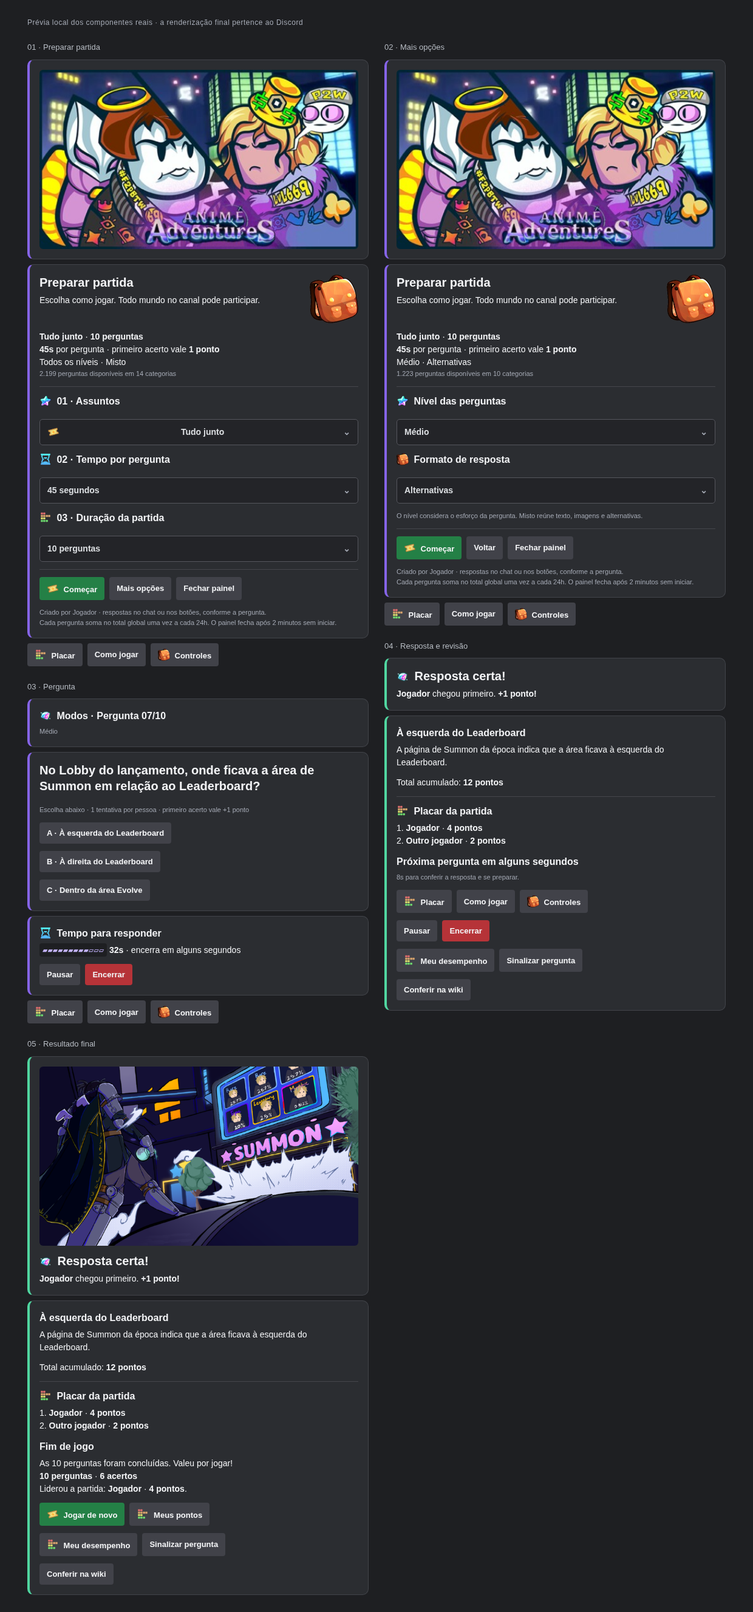
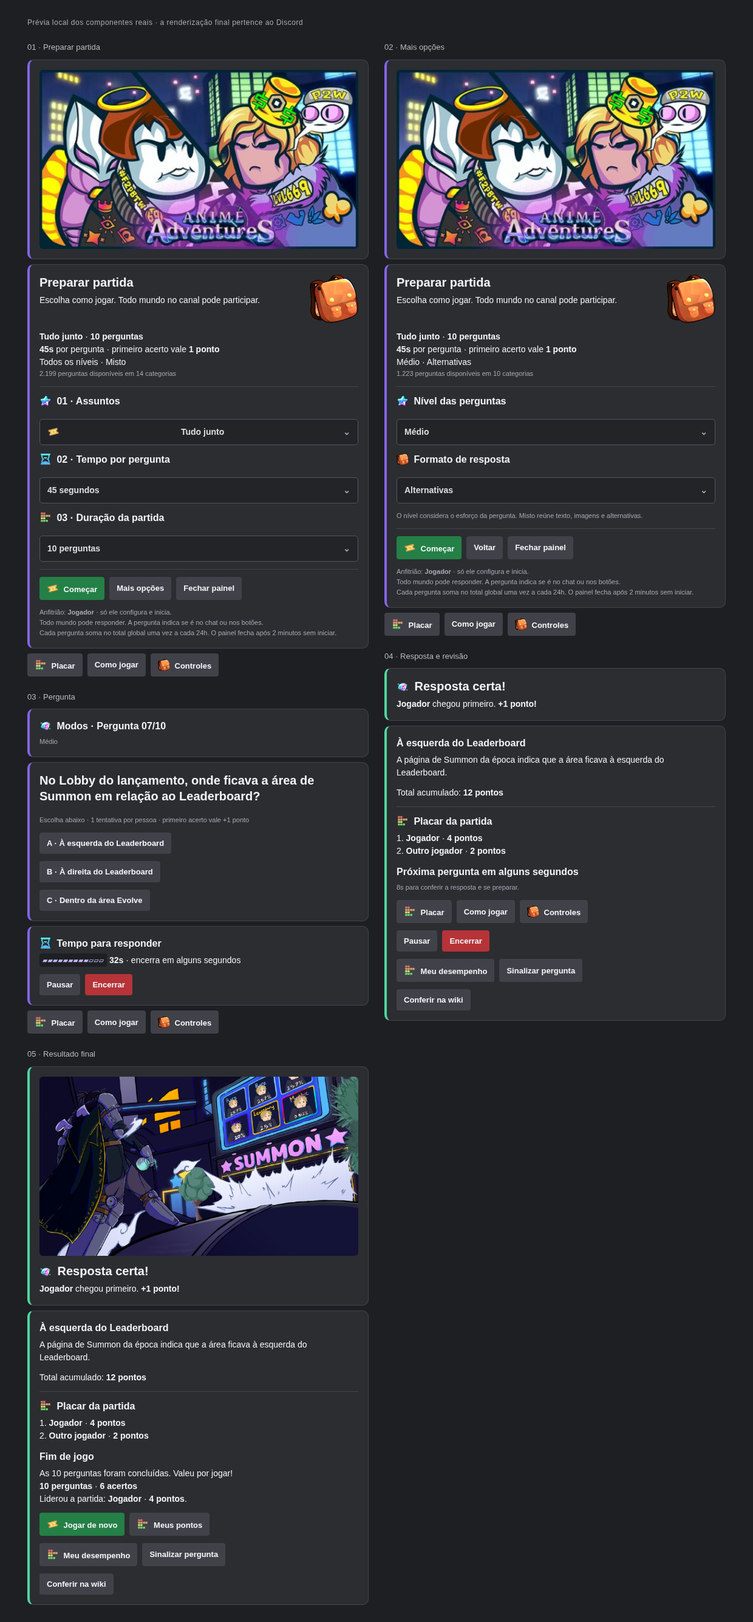
Polish Adventures guidance and close final validation gaps

diff --git a/quiz_ui.py b/quiz_ui.py
@@ -195,7 +195,8 @@ def lobby_panel(session, callback):
         ui.ActionRow(ActionButton('start', callback, label='Começar', emoji=icons.component('summon'), style=discord.ButtonStyle.success,disabled=not count),
                      ActionButton('advanced',callback,label='Voltar' if advanced else 'Mais opções'),
                      ActionButton('stop', callback, label='Fechar painel')),
-        text(f'-# Criado por {safe_name(session.host.display_name)} · respostas no chat ou nos botões, conforme a pergunta.\n'
+        text(f'-# Anfitrião: **{safe_name(session.host.display_name)}** · só ele configura e inicia.\n'
+             '-# Todo mundo pode responder. A pergunta indica se é no chat ou nos botões.\n'
              '-# Cada pergunta soma no total global uma vez a cada 24h. O painel fecha após 2 minutos sem iniciar.'),
         header=artwork(0),
         footer=[utilities(callback)],
@@ -250,8 +251,11 @@ def closed_question_panel(session):
 
 
 def standings(session):
-    entries = sorted(session.session_scores.values(), key=lambda row: (-row['points'], row['first']))[:5]
-    return '\n'.join(f"{i + 1}. **{safe_name(row['name'])}** · **{quantity(row['points'], 'ponto')}**" for i, row in enumerate(entries)) or 'O primeiro ponto ainda está em jogo.'
+    entries = sorted(session.session_scores.values(), key=lambda row: (-row['points'], row['first']))
+    rows = '\n'.join(f"{i + 1}. **{safe_name(row['name'])}** · **{quantity(row['points'], 'ponto')}**" for i, row in enumerate(entries[:5]))
+    if len(entries) > 5:
+        rows += f'\n-# Mostrando 5 de {len(entries)} jogadores com pontos.'
+    return rows or 'O primeiro ponto ainda está em jogo.'
 
 
 def match_leaders(session):
@@ -316,17 +320,19 @@ def ended_panel(session, reason, callback):
 
 def help_panel():
     return Panel(
-        *illustrated('## Como jogar', icons.asset('items')), divider(),
-        text('### 1 · Monte a partida\nUse **/adventures**, escolha um grupo ou assunto específico, o tempo e 10, 20 ou 30 perguntas. **Partida contínua** não tem limite de rodadas. Em **Mais opções**, escolha dificuldade e formato. Só quem abriu o painel ajusta as opções.'),
-        text('### 2 · Veja como responder\n**O primeiro acerto vale 1 ponto.** Algumas perguntas pedem resposta no chat, outras mostram uma imagem ou três alternativas. No chat, cada pessoa pode enviar **até três respostas diferentes** por pergunta; repetir a mesma não gasta outra tentativa. Nas alternativas, vale **uma tentativa** por pessoa. Quem acertar primeiro leva o ponto.'),
-        text('### 3 · Qual nome vale?\nAceitamos os nomes cadastrados do jogo (atuais e antigos) e do anime. Maiúsculas e acentos não fazem diferença. Confira a digitação: nomes parecidos não contam. Se a pergunta pedir uma evolução, responda a forma evoluída.'),
-        text('### 4 · Mantenha a partida rolando\nTentou e errou? Tudo bem, a partida continua. Ela termina ao chegar ao total escolhido, ao encerrar pelo botão ou na primeira rodada sem tentativa. Abrir ajuda ou placar não conta como resposta.'),
-        text('### 5 · Pontuação\nTodo primeiro acerto vale **1 ponto na partida**. No **total global**, a mesma pergunta soma um ponto por pessoa a cada **24 horas**, mesmo mudando de canal ou abrindo outra partida.'),
-        text('### Precisa de uma pausa?\nQuem abriu a partida e a moderação podem pausar e encerrar. Pausar trava o relógio e as respostas; retomar continua do mesmo ponto. Uma pausa de **10 minutos** encerra a partida. Ao encerrar com uma pergunta ativa, ela termina primeiro. Com a partida pausada, encerra na hora.'),
-        text('### Veja seu desempenho\nO resultado oferece uma revisão privada das últimas 50 rodadas, com respostas e primeiros acertos por assunto. O percentual também depende da velocidade. **Sinalizar pergunta** envia um aviso privado para revisão: até cinco avisos por pessoa em 24h.'),
-        text('### Controle e recuperação\nEm **Controles**, o anfitrião e a moderação podem transferir a partida. Se ele sair do servidor, alguém que já participou pode assumir após a confirmação da saída. Após um reinício, partidas salvas por até 24h oferecem **Retomar partida**. Uma rodada interrompida sem acerto é anulada; pontos gravados são preservados.'),
-        text('-# Se a conexão com o Discord cair, o relógio pausa e volta após reconectar. Uma pausa que já era sua continua pausada.\n'
-             '-# Até 200 participantes por partida. A ajuda e seus pontos aparecem só para você. A fonte de cada resposta fica no botão da wiki.'),
+        text('### Tentativas e nomes\n**Chat ou imagem:** até três respostas diferentes por pessoa. Repetir a mesma não gasta tentativa.\n**Alternativas:** uma escolha por pessoa.\n\nValem os nomes cadastrados do jogo, atuais e antigos, e do anime. Maiúsculas e acentos não mudam a resposta; nomes parecidos não contam. Se a pergunta pedir uma evolução, responda a forma evoluída.'),
+        divider(),
+        text('### Partida e total global\nO primeiro acerto vale **1 ponto na partida**. No **total global**, a mesma pergunta soma uma vez por pessoa a cada **24 horas**, mesmo em outro canal ou partida.'),
+        text('### Quando a partida termina?\nAo completar o total escolhido, ao encerrar pelo botão ou na **primeira rodada sem tentativa**. Tentou e errou? A partida continua. Abrir ajuda ou placar não conta como tentativa.'),
+        divider(),
+        text('### Pausa e controle\nO anfitrião e a moderação podem pausar e encerrar pelo painel da partida. Para passar o controle, use **Controles**. Pausar trava tempo e respostas; retomar continua do mesmo ponto. Uma pausa de **10 minutos** encerra a partida.\n\nEncerrar durante uma pergunta ativa deixa a rodada terminar. Com a partida pausada ou no intervalo, encerra na hora. Se o anfitrião sair do servidor, um participante ou moderador pode assumir após a saída ser confirmada.'),
+        text('### Desempenho e revisão\n**Meu desempenho** mostra seus primeiros acertos por assunto e as últimas 50 rodadas. O percentual inclui a disputa por velocidade. **Sinalizar pergunta** envia um aviso privado à moderação: até cinco por pessoa em 24h.'),
+        text('### Se a conexão cair ou o bot reiniciar\nUma queda de conexão pausa o relógio; a reconexão retoma só a pausa automática. Após reiniciar, partidas salvas por até **24h** oferecem **Retomar partida**. A rodada interrompida sem acerto é anulada e os pontos gravados são preservados.'),
+        text('-# Até 200 participantes por partida. Só você vê esta ajuda e suas consultas de pontos/desempenho. A fonte de cada resposta fica no botão da wiki.'),
+        header=[*illustrated('## Como jogar\nTodo mundo no canal pode participar.', icons.asset('items')), divider(),
+                text('### 1 · Prepare\nAbra **/adventures**. Escolha assuntos, tempo e **10, 20 ou 30 perguntas**, ou **Partida contínua**. Em **Mais opções**, ajuste dificuldade e formato. Só o anfitrião configura e toca em **Começar**.'),
+                text('### 2 · Responda\nSiga a indicação da pergunta: escreva no chat ou escolha **A, B ou C**. O primeiro acerto válido processado pelo bot leva o ponto; a conexão pode influenciar a ordem.'),
+                text('### 3 · Confira o resultado\nVeja a resposta, o placar e a fonte. O intervalo entre perguntas é de **8 segundos**. Use **Meu desempenho** para rever suas rodadas em uma consulta privada.')],
     )
 
 

diff --git a/bot.py b/bot.py
@@ -231,7 +231,7 @@ class QuizSession(AdventureState):
 
     def finish_reason(self):
         if self.stop_requested:
-            return 'Partida encerrada por quem criou o painel ou pela moderação.'
+            return 'Partida encerrada pelo anfitrião ou pela moderação.'
         if self.round_limit and self.question_number >= self.round_limit:
             return f'As {self.round_limit} perguntas foram concluídas. Valeu por jogar!'
         return 'Ninguém tentou responder essa rodada. Quer jogar de novo?'
@@ -277,12 +277,13 @@ class QuizSession(AdventureState):
         answer = normalize_answer(message.content)
         if not answer:
             return False
-        attempts = self.chat_attempts.setdefault(message.author.id, set())
+        attempts = self.chat_attempts.get(message.author.id, set())
         if answer in attempts or len(attempts) >= self.chat_attempt_limit:
             return False
         if not self.track_attempt(message.author):
             return False
         attempts.add(answer)
+        self.chat_attempts[message.author.id] = attempts
         self.had_participation = True
         if answer in self.current_question.accepted:
             self.answer_future.set_result(message.author)
@@ -771,7 +772,7 @@ async def handle_control(interaction, action, value=None):
     owner = interaction.user.id == session.host.id
     if action in ('start', 'category', 'time', 'rounds','difficulty','format','advanced'):
         if not owner:
-            await interaction.response.send_message('Só quem abriu a partida pode ajustar as opções e começar. Quando a pergunta aparecer, todo mundo pode responder!', ephemeral=True)
+            await interaction.response.send_message('Só o anfitrião atual pode ajustar as opções e começar. Quando a pergunta aparecer, todo mundo pode responder!', ephemeral=True)
             return
         if session.phase != 'lobby':
             await interaction.response.send_message('Essas opções só podem mudar antes da partida começar.', ephemeral=True)
@@ -814,7 +815,7 @@ async def handle_control(interaction, action, value=None):
             await session.refresh_controls()
         return
     if not (owner or is_moderator(interaction.user)):
-        await interaction.response.send_message('Só quem criou a partida e a moderação podem pausar, retomar ou encerrar. Você pode responder e consultar o placar normalmente.', ephemeral=True)
+        await interaction.response.send_message('Só o anfitrião atual e a moderação podem pausar, retomar ou encerrar. Você pode responder e consultar o placar normalmente.', ephemeral=True)
         return
     if action == 'pause':
         if session.is_paused:
@@ -860,7 +861,7 @@ async def handle_control(interaction, action, value=None):
             try:
                 await interaction.response.defer()
             finally:
-                await session.stop_now('Partida encerrada por quem criou o painel ou pela moderação. Valeu por jogar!')
+                await session.stop_now('Partida encerrada pelo anfitrião ou pela moderação. Valeu por jogar!')
     else:
         await interaction.response.send_message('A partida já passou para outra rodada. Use o painel mais recente.', ephemeral=True)
 

diff --git a/adventure_views.py b/adventure_views.py
@@ -97,7 +97,7 @@ def recovery_panel(session,callback,*,restarting=False):
                     f'{screen.session_summary(session)}'),screen.divider(),
         screen.text(f'### Placar da partida\n{screen.standings(session)}'),
         screen.text('-# Uma rodada interrompida sem acerto é anulada. Pontos já gravados não contam duas vezes.\n'
-                    '-# Quem criou a partida ou a moderação pode retomar. O painel expira em 10 minutos.'),
+                    '-# O anfitrião e a moderação podem retomar. O painel expira em 10 minutos.'),
         ui.ActionRow(screen.ActionButton('resume_saved',callback,label='Retomar partida',style=discord.ButtonStyle.success),
                      screen.ActionButton('stop',callback,label='Encerrar'),screen.ActionButton('manage',callback,label='Controles')),
         color=screen.GOLD)
@@ -160,19 +160,22 @@ def reports_panel(queue,guild_id,pack):
     by_id = {q.id:q for q in pack.questions}
     for report in queue['items']:
         question = by_id.get(report['question_id'])
-        reason = ''.join(c for c in report['reason'] if unicontrol(c))[:180]
+        reason = ''.join(c for c in report['reason'] if unicontrol(c))[:400]
         reason = discord.utils.escape_markdown(discord.utils.escape_mentions(reason))
         prompt = question.prompt[:180] if question else 'Pergunta de uma versão anterior.'
         answer = '\n**Resposta cadastrada:** '+question.answer[:160] if question else ''
-        content = f'### Aviso #{report["id"]}\n{prompt}{answer}\n\n{reason}'
+        content = f'### Aviso #{report["id"]}\n{prompt}{answer}\n\n**Relato do jogador:**\n{reason}'
         row = ui.ActionRow(DynamicControls(f'report_done:{report["id"]}:0',label='Marcar revisado'))
         if question:
             row.add_item(ui.Button(label='Conferir a fonte',url=pack.sources[question.sources[0]]['url']))
         children += [screen.divider(),*screen.illustrated(content,media.for_question(question,revealed=True) if question else None),row]
     page = queue['page']
-    children += [screen.divider(),ui.ActionRow(
-        DynamicControls(f'report_page:{guild_id}:{max(0,page-1)}',label='Anterior',disabled=page==0),
-        DynamicControls(f'report_page:{guild_id}:{page+1}',label='Próxima',disabled=(page+1)*3>=queue['total']))]
+    if not queue['total']:
+        children += [screen.divider(),screen.text('**Tudo em dia.** Nenhuma pergunta aguardando revisão neste servidor.')]
+    else:
+        children += [screen.divider(),screen.text(f'-# Página {page+1}/{math.ceil(queue["total"]/3)} · só a moderação vê esta consulta.'),ui.ActionRow(
+            DynamicControls(f'report_page:{guild_id}:{max(0,page-1)}',label='Anterior',disabled=page==0),
+            DynamicControls(f'report_page:{guild_id}:{page+1}',label='Próxima',disabled=(page+1)*3>=queue['total']))]
     return screen.Panel(*children,timeout=300)
 
 

diff --git a/tests/test_adventure_features.py b/tests/test_adventure_features.py
@@ -272,6 +272,19 @@ class FeatureTests(unittest.IsolatedAsyncioTestCase):
         self.assertEqual(panel.timeout,300)
         discord.http.handle_message_parameters(view=panel)
 
+    async def test_moderators_can_read_the_entire_report_and_the_empty_queue(self):
+        reason = 'x' * 360 + ' O erro está no último upgrade.'
+        queue = {'total':3,'page':0,'items':[
+            {'id':i,'question_id':'summon:cost','reason':reason} for i in range(3)]}
+        panel = views.reports_panel(queue,10,app.PACK)
+        self.assertEqual(view_text(panel).count(reason),3)
+        self.assertLessEqual(panel.content_length(),4000)
+        self.assertLessEqual(panel.total_children_count,40)
+        discord.http.handle_message_parameters(view=panel)
+        empty = views.reports_panel({'total':0,'page':0,'items':[]},10,app.PACK)
+        self.assertIn('Nenhuma pergunta aguardando revisão',view_text(empty))
+        self.assertFalse(any(isinstance(item,discord.ui.Button) for item in empty.walk_children()))
+
     async def test_report_modal_cannot_be_submitted_by_another_user_or_channel(self):
         s=await self.lobby()
         modal=views.ReportModal(self.repo,s.control_message.id,10,s.channel.id,42)

diff --git a/tests/test_guard.py b/tests/test_guard.py
@@ -83,6 +83,19 @@ class GuardTests(unittest.IsolatedAsyncioTestCase):
         self.assertEqual(s.chat_attempts[42], {'nao'})
         self.assertTrue(s.submit(Message(s.channel, content='50')))
 
+    async def test_player_limit_also_bounds_chat_attempt_storage(self):
+        s = await self.playing()
+        for uid in range(1, 201):
+            self.assertFalse(s.submit(Message(s.channel, user(uid), 'errado')))
+        for uid in range(201, 1201):
+            self.assertFalse(s.submit(Message(s.channel, user(uid), '50')))
+        self.assertEqual(len(s.performance), 200)
+        self.assertEqual(len(s.chat_attempts), 200)
+        self.assertFalse(s.answer_future.done())
+        self.assertTrue(s.submit(Message(s.channel, user(42), '50')))
+        await until(lambda: s.correct_count == 1)
+        self.assertEqual(s.session_scores[42]['points'], 1)
+
     async def test_empty_oversized_and_webhook_messages_do_not_count(self):
         s = await self.playing()
         for answer in ('', '   ', '!!!', 'x' * (app.MAX_ANSWER_LENGTH + 1)):

diff --git a/tests/test_controls.py b/tests/test_controls.py
@@ -305,7 +305,7 @@ class ControlTests(unittest.IsolatedAsyncioTestCase):
         self.assertEqual(session.correct_count, 1)
         self.assertEqual(session.question_number, 1)
         app.bot.scores.credit.assert_called_once()
-        self.assertIn('Partida encerrada por quem criou', view_text(session.control_view))
+        self.assertIn('Partida encerrada pelo anfitrião', view_text(session.control_view))
         self.assertNotIn(session.channel.id, app.active_sessions)
 
     async def test_paused_session_can_be_ended_without_starting_another_round(self):

diff --git a/docs/teste-discord.md b/docs/teste-discord.md
@@ -1,0 +1,31 @@
+# Teste final no Discord
+
+O código de `/adventures` está fechado para esta etapa. A suíte offline verifica a lógica; este roteiro confirma o cliente Discord, as permissões e o volume real. Não foi executado durante a indisponibilidade do Railway.
+
+## Preparação
+
+Quando o Railway liberar builds, confirme que o novo deployment usa o commit mais recente de `main`. Se precisar iniciar manualmente, abra **Ctrl+K / Cmd+K → Deploy Latest Commit**. **Restart** mantém o código atual; **Redeploy** repete a versão do deployment selecionado.
+
+O volume em `/data`, `DATA_DIR=/data` e a réplica única já foram confirmados pelo proprietário. Não é preciso refazer essa configuração.
+
+Use um canal de teste, duas pessoas e, se possível, computador e celular. A segunda pessoa deve começar sem permissão de moderação. Os pontos obtidos são reais; este roteiro não apaga nem restaura o banco.
+
+## Uma sessão de validação
+
+| Etapa | O que fazer | O que conferir |
+| --- | --- | --- |
+| Preparação | Abrir `/adventures`, conferir menus e **Mais opções**. Pedir que a segunda pessoa tente mudar uma opção. | O resumo acompanha a seleção; só o anfitrião configura e inicia. Mensagens de orientação ficam privadas. |
+| Imagens e texto | Em **Mais opções**, escolher **Imagens** e todos os níveis. Reconhecer uma unidade; tentar nome atual, antigo ou do anime cadastrado para a mesma forma. Consultar **Como jogar** e **Placar**. | A imagem aparece antes da resposta, com descrição `.`. Ajuda e pontos são privados. Não há nomes do anime usados como perguntas de biografia. |
+| Alternativas e disputa | Encerrar essa partida e abrir outra com **Alternativas**. Em uma rodada, uma pessoa erra e tenta clicar de novo. Em outra, as duas tentam acertar juntas. | A escolha errada não pode ser trocada. Só um vencedor e um ponto por rodada. Abrir ajuda não bloqueia a resposta. |
+| Pausa e controles | Pausar durante uma pergunta; esperar, tentar responder e retomar. Transferir o anfitrião em **Controles**, depois testar os botões com as duas pessoas. | Tempo congelado, respostas bloqueadas e tempo restante preservado. O novo anfitrião assume; o anterior perde o controle se não for moderador. |
+| Resultado e avisos | Ver **Meu desempenho**. Em um resultado antigo, usar **Sinalizar pergunta** com um relato longo, deixando o detalhe principal no fim. Como moderador, abrir **Controles → Revisar avisos** e marcar revisado. | Revisão privada com resposta/imagem/fonte. O relato aparece completo, até 400 caracteres. A fila vazia fica explícita. Um resultado antigo permite consulta, sem controlar a rodada nova. |
+| Encerramento | Em uma partida, pedir encerramento com a pergunta ativa; em outra, deixar uma rodada sem nenhuma tentativa. Usar **Jogar de novo**. | A pergunta ativa termina antes de encerrar. Sem tentativa, a partida acaba na primeira rodada. O canal fica livre para outra partida. |
+| Pontos e reinício | Anotar o total global. Com uma partida em andamento, reiniciar o serviço uma vez; retomar pelo painel salvo e consultar o total. Depois de um novo deploy, consultar novamente. | Total preservado, configurações/placar recuperados. Rodada interrompida sem vencedor é anulada. Repetir a mesma pergunta dentro de 24h vale na partida, sem outro crédito global. |
+
+Escolher o mesmo assunto/formato ajuda a reencontrar uma pergunta para conferir o antifarm; o sorteio não garante repetição imediata. As durações 10/20/30/contínua, expirações, concorrência e falhas de rede também são cobertas offline. Não é necessário esperar todos os prazos longos para concluir este teste de uso.
+
+Se algo falhar, registrar a ação, o texto da pergunta e o resultado esperado; uma captura do painel ajuda. Não compartilhar token, banco de pontos ou arquivos privados. Animação, tamanho e quebra de linhas podem variar entre clientes do Discord.
+
+## Operação após o teste
+
+Os detalhes de backup, exportação privada e ativação do monitor externo estão em [release-checklist.md](release-checklist.md). A URL pública de `/ready` e a variável `BOT_HEALTH_URL` ainda precisam ser configuradas para o monitor externo funcionar. Novos comandos e o site continuam na etapa seguinte.

diff --git a/docs/interface.md b/docs/interface.md
@@ -9,7 +9,7 @@ A interface usa **Discord Components V2**, disponíveis em discord.py 2.7.1. O q
 3. **Resultado:** vencedor ou fim do tempo, resposta comentada e imagem correspondente, total acumulado quando salvo, placar da sessão, próxima etapa e botão da revisão histórica usada como fonte.
 4. **Pausa:** congela imediatamente a pergunta ou o intervalo. Mostra os segundos restantes sem um prazo relativo que continue se movendo. **Retomar** usa o mesmo tempo restante, sem reiniciar a contagem. Respostas enviadas durante a pausa são rejeitadas, mesmo se entregues após a retomada. Um acerto recebido antes do pedido de pausa continua valendo. Após dez minutos de pausa, encerra e libera o canal; retomar cancela o encerramento agendado. Cliques repetidos não estendem essa pausa.
 5. **Encerramento:** banner de Summon enviado pelo usuário, resumo e **Jogar de novo**. Encerrar uma pergunta ativa aguarda seu desfecho para preservar o ponto em disputa; em pausa ou fora da pergunta, encerra imediatamente.
-6. **Consultas privadas:** ajuda, pontos, desempenho, transferência e estado do bot não geram mensagens públicas nem contam como tentativa. A fila de avisos só aparece para moderação do servidor.
+6. **Consultas privadas:** ajuda, pontos, desempenho, transferência e estado do bot não geram mensagens públicas nem contam como tentativa. **Como jogar** separa os três passos iniciais das regras detalhadas em dois cartões. A fila de avisos só aparece para moderação do servidor, mostra o relato completo de até 400 caracteres, o número da página e um estado vazio explícito.
 7. **Mais opções:** dificuldade e formato ficam em uma tela separada do painel inicial. O resumo mantém as seleções visíveis; combinações vazias desabilitam Começar e explicam o ajuste.
 8. **Recuperação:** após reinício, a partida salva oferece Retomar/Encerrar, com placar e configurações. Confirmação do anfitrião/moderação; uma rodada interrompida sem ponto é anulada. O painel expira em dez minutos.
 
@@ -36,6 +36,8 @@ A interface usa **Discord Components V2**, disponíveis em discord.py 2.7.1. O q
 ## Escrita e aparência
 
 Textos curtos e naturais em português explicam o que fazer, sem forçar gírias. Títulos, subtítulos, negrito, texto secundário, separadores e imagens originais do jogo dão hierarquia. A interface não usa emojis Unicode. O placar usa posições numeradas; alternativas usam A/B/C. Pontos, perguntas e acertos respeitam singular e plural. Nomes de jogadores têm Markdown, menções, quebras de linha e controles direcionais tratados para não imitarem outras linhas de placar. A fonte, o fundo e as dimensões finais são definidos pelo cliente Discord e pelo tema do usuário; bots não aplicam CSS próprio às mensagens.
+
+O painel inicial identifica quem configura a partida. Textos de permissão acompanham o anfitrião atual após transferências. Placares com mais de cinco jogadores informam quantos estão representados, sem cortar a pontuação dos demais. O teste real de uso está reunido em [teste-discord.md](teste-discord.md).
 
 Dez imagens de interface vêm diretamente da wiki: mochila de Unit Storage, estrela colorida, Summon Ticket, Star Fruit, Star Remnant, ranking, Gems, dano, SPA e alcance. São usados como elementos de interface e não como prova de uma receita de evolução ou de uma mecânica histórica. Todas as imagens ativas são coloridas. A mochila vem de Unit Storage: o fundo foi removido por flood fill até o contorno escuro e recorte, preservando os valores RGB da arte; o arquivo original e seus hashes foram guardados. As demais artes já possuem transparência. Não houve recoloração, reconstrução ou geração por IA. Versões PNG RGBA de até 128px preservam o canal alfa para uso nos controles. Dentro de textos, botões e menus, o Discord exige o recurso técnico de ícone de aplicação/custom emoji. Os pixels são dos arquivos da wiki, com identificadores e nomes neutros registrados em `data/ui_icons.json`; a aplicação os usa sem criar emojis nos servidores. Controles mantêm seus rótulos e funcionam como texto quando um registro de ícone está ausente.
 

diff --git a/docs/adventures-readiness.md b/docs/adventures-readiness.md
@@ -2,6 +2,10 @@
 
 Esta entrega fecha a interface, a duração das partidas e as regras de disputa do comando atual. O único comando continua sendo `/adventures`; site, novos comandos, idiomas e histórico de updates ficam em etapas próprias.
 
+O acabamento final organiza **Como jogar** em dois cartões, com três passos rápidos e regras separadas por assunto. As mensagens identificam o anfitrião atual mesmo após uma transferência; o placar avisa quando mostra apenas cinco jogadores. A moderação lê relatos completos de até 400 caracteres e uma indicação clara quando a fila está vazia. O limite de 200 participantes também limita os registros de tentativas no chat.
+
+**207 testes automatizados passaram** na revisão final. A versão está pronta no código; falta a validação real após o novo deploy, sem promessa de ausência absoluta de falhas. O roteiro único para essa validação está em [teste-discord.md](teste-discord.md).
+
 ## Experiência entregue
 
 - Dez ícones coloridos da wiki, transparência e os dois banners autorizados. Sem arte gerada ou recoloração. O original da mochila foi preservado antes de remover seu fundo.
